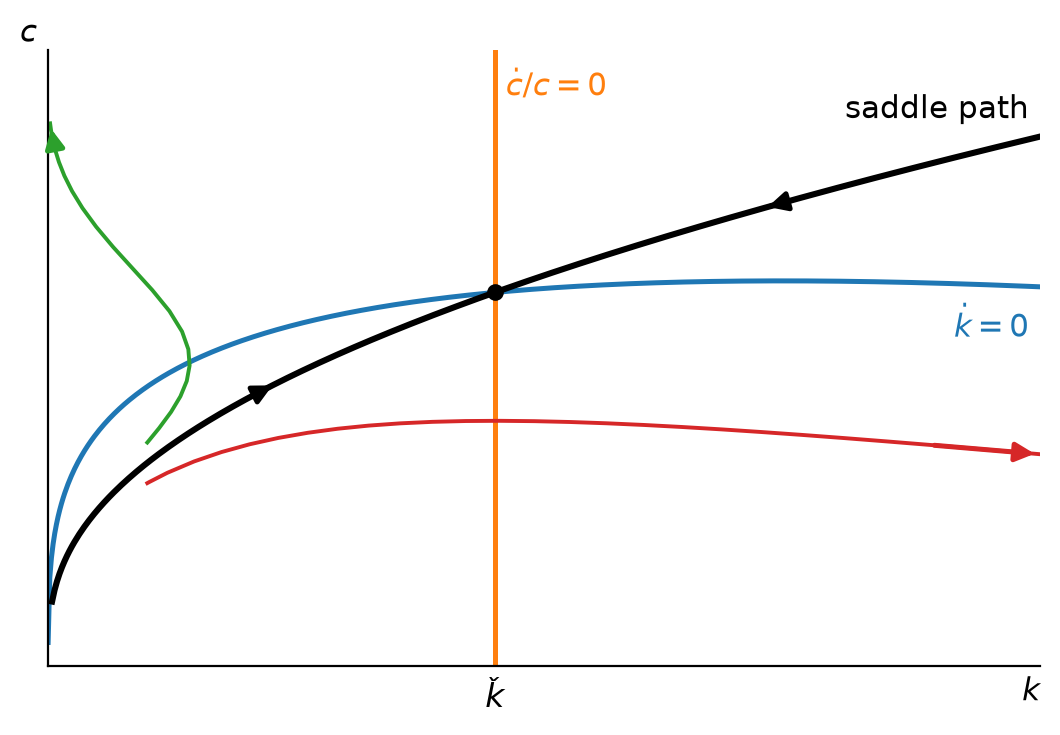
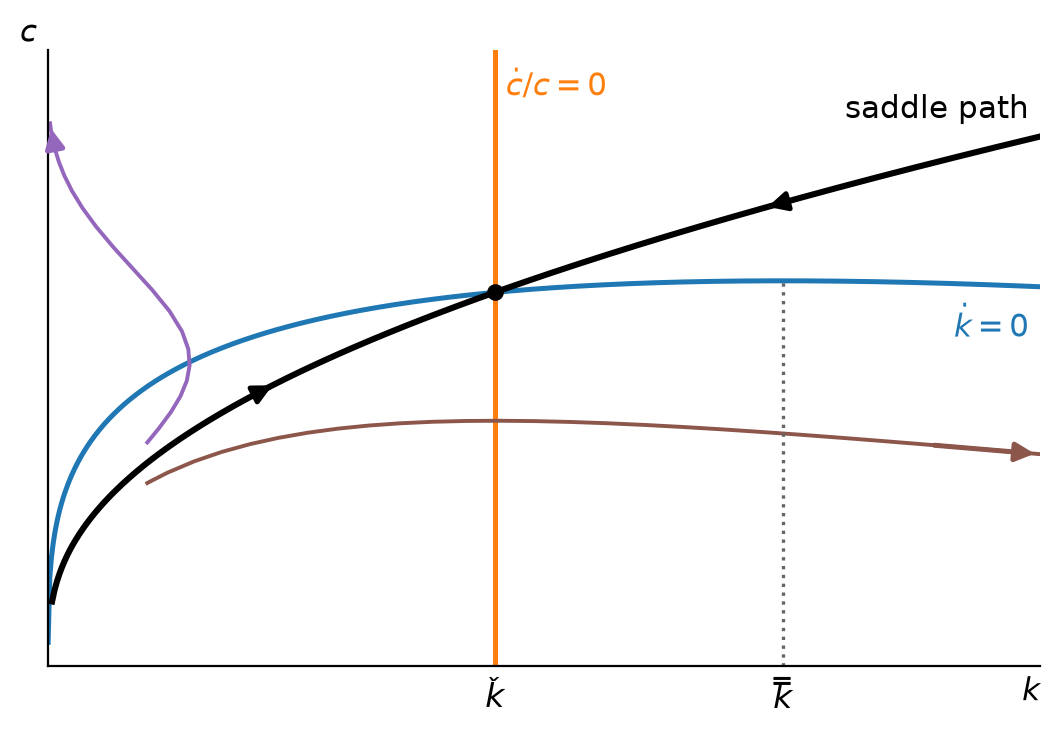
RamseyCassKoopmans notebook: the book session's review (no mu, k-gold marked, color-blind-safe paths)
- The closed form is written without mu, which is the book's \uPmt, in #82's words: the ray
  c = ((theta + (1-alpha)(xi+delta))/alpha) k, along which kdot = k^alpha - ((theta+xi+delta)/alpha + phi) k
  is a Bernoulli equation. The code's mu is now slope.
- draw_saddle takes golden=, as draw_loci does: the saddle-path figure marks the golden rule on the
  axis with a dotted line, which the caption now names.
- The paths off the saddle path are purple and brown (tab10 C4 and C5), not green and red, which
  color-blind readers confuse; the self-test fails on red or green.

Claude-Session: https://claude.ai/code/session_01CChDGqnWjkfxzNB3hADc84

diff --git a/src/intertemporal_choice/ramsey.py b/src/intertemporal_choice/ramsey.py
@@ -65,10 +65,16 @@ def _arrow(ax, k, c, color, at=-1):
                 arrowprops={"arrowstyle": "-|>", "color": color, "lw": 1.8, "mutation_scale": 14})
 
 
-def draw_saddle(ax, k, c_kdot0, steady, saddle, paths, c_max=None):
+# The paths off the saddle path: purple and brown, not red and green, which color-blind readers
+# confuse, and neither close to the blue kdot = 0 curve or the orange cdot/c = 0 line.
+PATH_COLORS = ("C4", "C5")
+
+
+def draw_saddle(ax, k, c_kdot0, steady, saddle, paths, golden=None, c_max=None):
     """The phase diagram: the kdot = 0 curve (c_kdot0 at each k), the cdot/c = 0 line at the steady
     state, the saddle path `saddle` = (k, c) with arrows toward the steady state, and `paths`, each
-    a path (k, c) in time order, with an arrow at its end."""
+    a path (k, c) in time order, with an arrow at its end. `golden`, if given, is the golden rule
+    k̿, marked on the axis with a dotted line up to the top of the kdot = 0 curve."""
     k_max = k[-1]
     c_max = c_max or 1.6 * np.max(c_kdot0)
     ax.plot(k, c_kdot0, color="C0")
@@ -87,11 +93,13 @@ def draw_saddle(ax, k, c_kdot0, steady, saddle, paths, c_max=None):
         middle = len(order) // 2
         _arrow(ax, kb[order], cb[order], "black", at=middle)
     ax.plot(*steady, "o", color="black", markersize=5)
-    for index, (k_p, c_p) in enumerate(paths):
-        color = f"C{index + 2}"
+    for (k_p, c_p), color in zip(paths, PATH_COLORS):
         ax.plot(k_p, c_p, color=color, linewidth=1.4)
         _arrow(ax, k_p, c_p, color)
     _tick(ax, steady[0], STEADY)
+    if golden is not None:
+        ax.plot([golden, golden], [0, np.interp(golden, k, c_kdot0)], color="0.4", linestyle=":", linewidth=1.2)
+        _tick(ax, golden, GOLDEN)
     _axes(ax, k_max, c_max)
 
 
@@ -110,9 +118,12 @@ def self_test() -> list[str]:
     fig, ax = plt.subplots()
     k_s = np.linspace(0.05, 5, 40)
     paths = [(np.linspace(0.5, 0.05, 20), np.linspace(0.6, 1.2, 20)), (np.linspace(0.5, 5, 20), np.linspace(0.4, 0.8, 20))]
-    draw_saddle(ax, k, curve(0.03), (2.25, 1.0), (k_s, 0.45 * k_s**0.5), paths)
-    if len(ax.get_lines()) != 6:  # the kdot = 0 curve, the cdot = 0 line, the saddle path, its point, two paths
-        failures.append("ramsey: draw_saddle does not draw the loci, the saddle path and each path")
+    draw_saddle(ax, k, curve(0.03), (2.25, 1.0), (k_s, 0.45 * k_s**0.5), paths, golden=3.7)
+    # the kdot = 0 curve, the cdot = 0 line, the saddle path, its point, two paths, the golden rule
+    if len(ax.get_lines()) != 7:
+        failures.append("ramsey: draw_saddle does not draw the loci, the saddle path, each path and the golden rule")
+    if {line.get_color() for line in ax.get_lines()[4:6]} & {"C2", "C3", "tab:green", "tab:red", "#2ca02c", "#d62728"}:
+        failures.append("ramsey: draw_saddle draws the paths in red and green")
     arrows = [a for a in ax.texts if a.arrow_patch is not None]
     if len(arrows) != 4:
         failures.append("ramsey: draw_saddle does not put an arrow on each branch of the saddle path and each path")

diff --git a/content/growth/RamseyCassKoopmans/index.md b/content/growth/RamseyCassKoopmans/index.md
@@ -341,7 +341,7 @@ both {eq}`eq:cdotOc` and {eq}`eq:RCK-kdot` as well as the TVC
 
 Transition to the Steady State
 
-Note: The same economy, with {math}`\ptyGro=0.03`. From {math}`\kap=0.5`, consumption 10 percent above the saddle path runs the capital stock down to zero, and consumption 10 percent below it accumulates capital past the golden rule. Drawn by the [notebook](RamseyCassKoopmans.ipynb); run it in your browser with nothing to install, in [JupyterLite](https://intertemporal-choice.github.io/lite/notebooks/index.html?path=RamseyCassKoopmans.ipynb), or open it in [Colab](https://colab.research.google.com/github/intertemporal-choice/intertemporal-choice.github.io/blob/main/content/growth/RamseyCassKoopmans/RamseyCassKoopmans.ipynb) or [Binder](https://mybinder.org/v2/gh/intertemporal-choice/intertemporal-choice.github.io/main?labpath=content/growth/RamseyCassKoopmans/RamseyCassKoopmans.ipynb).
+Note: The same economy, with {math}`\ptyGro=0.03`. From {math}`\kap=0.5`, consumption 10 percent above the saddle path runs the capital stock down to zero, and consumption 10 percent below it accumulates capital past the golden rule, marked by the dotted line. Drawn by the [notebook](RamseyCassKoopmans.ipynb); run it in your browser with nothing to install, in [JupyterLite](https://intertemporal-choice.github.io/lite/notebooks/index.html?path=RamseyCassKoopmans.ipynb), or open it in [Colab](https://colab.research.google.com/github/intertemporal-choice/intertemporal-choice.github.io/blob/main/content/growth/RamseyCassKoopmans/RamseyCassKoopmans.ipynb) or [Binder](https://mybinder.org/v2/gh/intertemporal-choice/intertemporal-choice.github.io/main?labpath=content/growth/RamseyCassKoopmans/RamseyCassKoopmans.ipynb).
 :::
 
 ## Appendix: Numerical Solution
